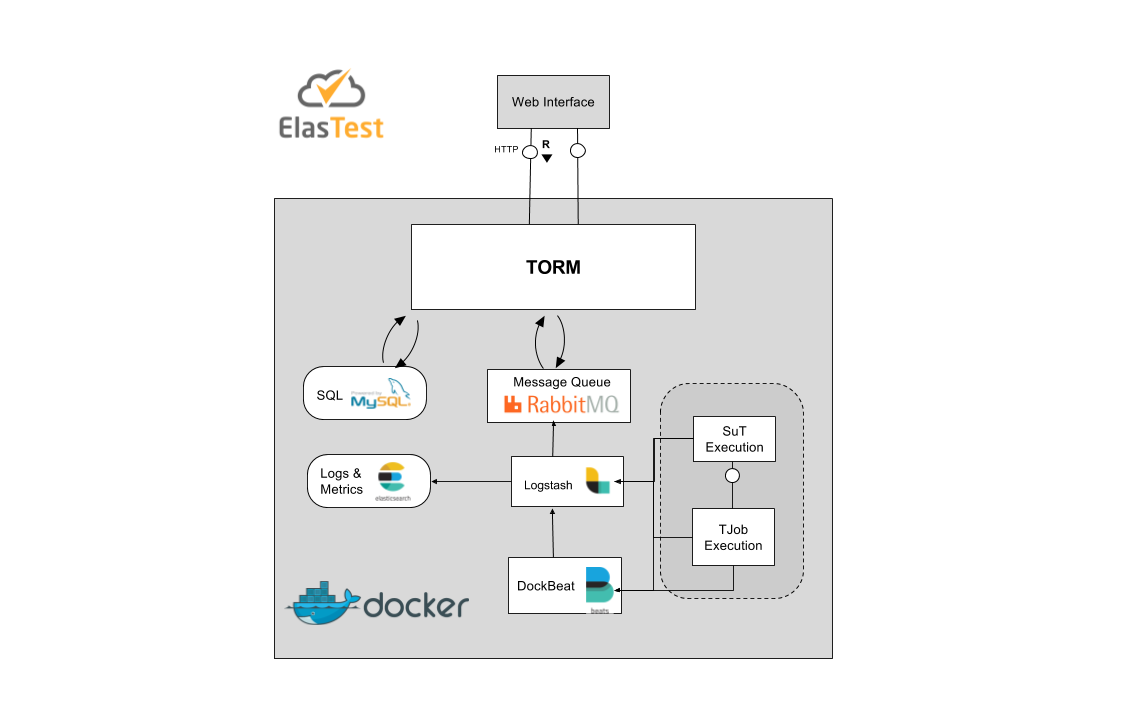
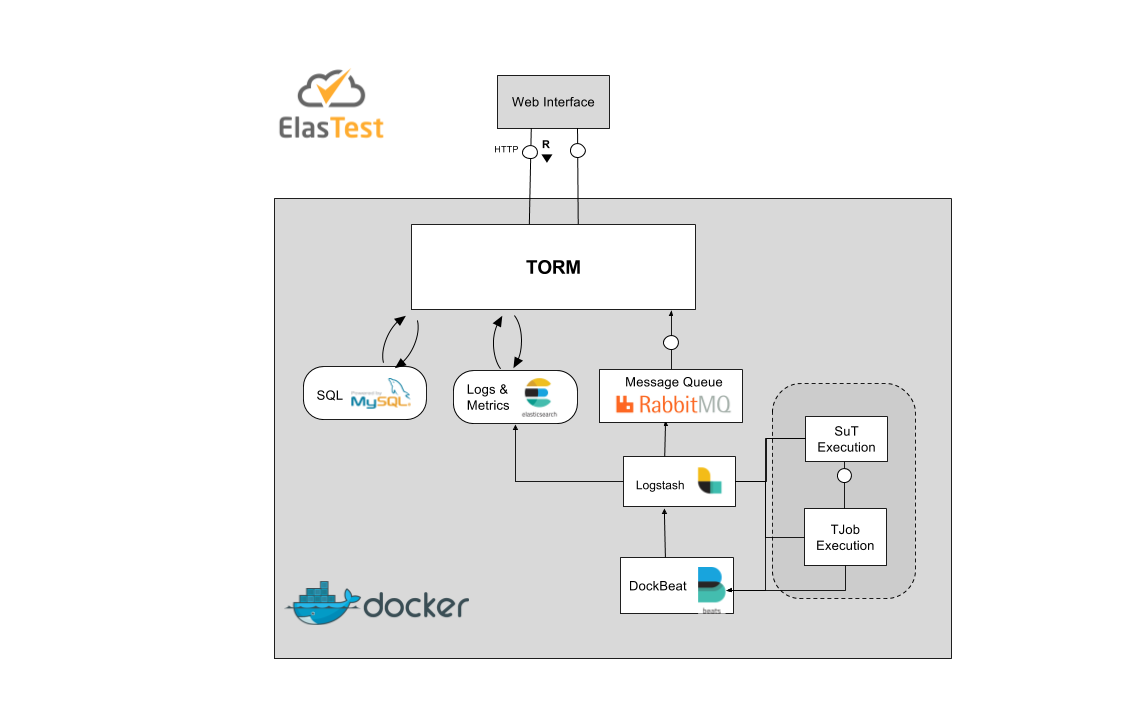
Modify doc and docker-compose.

Changed region(s): [[0.4009, 0.2754, 0.8634, 0.9179], [0.2467, 0.612, 0.4009, 0.7038], [0.4317, 0.4284, 0.4934, 0.459]]

diff --git a/docs/index.md b/docs/index.md
@@ -5,7 +5,7 @@ The Test Orchestration and Recommendation Manager (TORM) is the brain of ElasTes
 ### Component arquitecture
 In the next diagram, you can to see The ElasTest TORM Components Architecture.
 
-![ElasTest TORM Arquitecture](imgs/ElasTest_Torm_Architecture2.png)
+![ElasTest TORM Arquitecture](imgs/ElasTest_Torm_Architecture.png)
 
 ## Features
 
